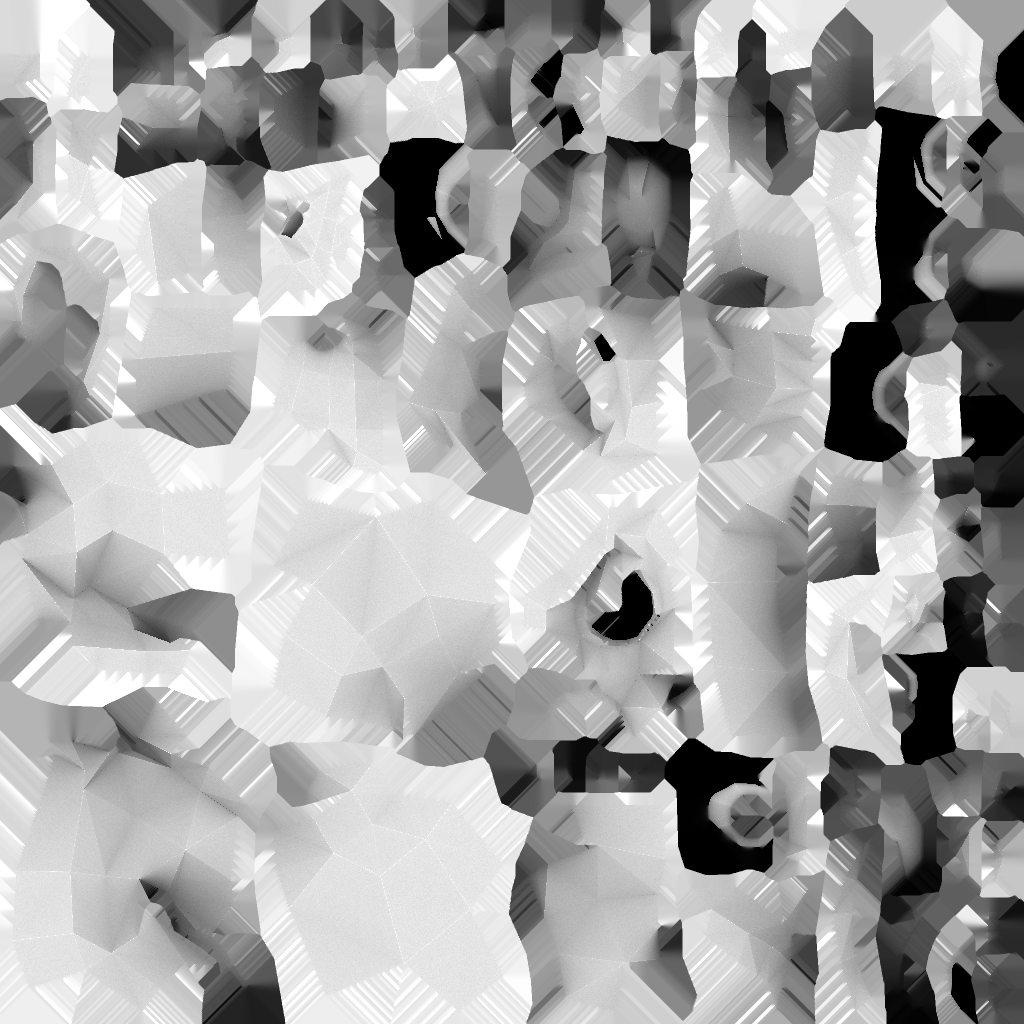
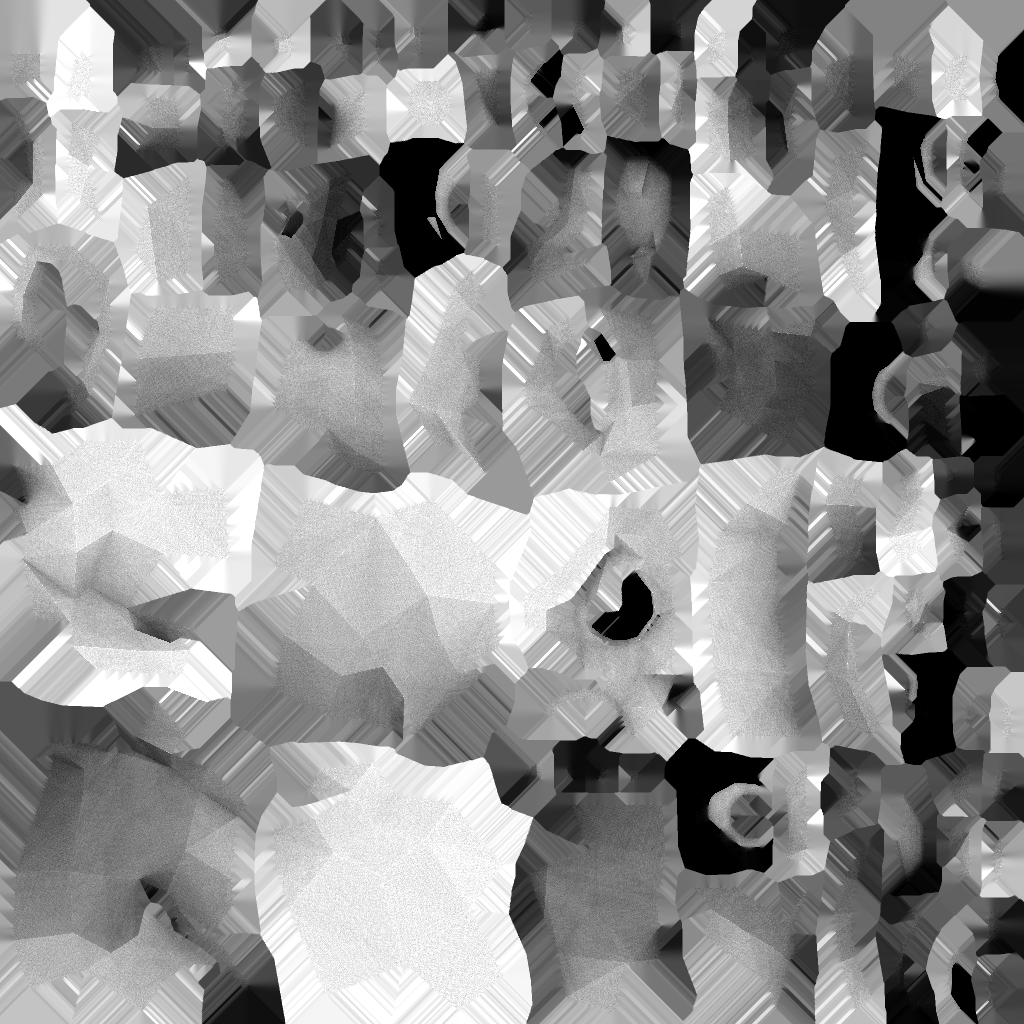
CleanUp, added batch baking, auto groundplanes

diff --git a/Assets/BNAO/Editor/BNAO.cs b/Assets/BNAO/Editor/BNAO.cs
@@ -92,9 +92,10 @@ public class BNAO : EditorWindow
 		ForceOneSided,
 		UseMaterialParameter
 	}
-
-	public MeshRenderer GroundPlaneRenderer;
 	public bool useGroundPlane;
+	public bool autoPlaceGroundplane;
+	public float groundPlaneOffset;
+	private List<GameObject> groundPlaneObjects = new List<GameObject>();
 
 	public BakeMode bakeMode = BakeMode.BentNormal;
 	public NormalsSpace bentNormalsSpace = NormalsSpace.Tangent;
@@ -119,6 +120,10 @@ public class BNAO : EditorWindow
 	public string outputPath = "Assets/BNAO/Bakes";
 	public NameMode nameMode = NameMode.Shortest;
 	private bool deleteDoubles = false;
+
+	private GameObject[] batchSelection;
+	private int batchIndex = 0;
+	private bool batchBake = false;
 
 	RenderTexture temp, shadowMap;
 
@@ -201,6 +206,8 @@ public class BNAO : EditorWindow
 		if (useOriginalShaders) EditorGUI.EndDisabledGroup();
 		if (bakeMode == BakeMode.NormalsConversion) EditorGUI.EndDisabledGroup();
 		if (bakeMode == BakeMode.AmbientOcclusion) useGroundPlane = EditorGUILayout.Toggle(new GUIContent("Use Ground Plane", "Ground Placed at (0,0,0), nice for things touching it."), useGroundPlane);
+		if (bakeMode == BakeMode.AmbientOcclusion && useGroundPlane) autoPlaceGroundplane = EditorGUILayout.Toggle(new GUIContent("Auto Place Ground", "If enabled, ground will be placed at the lowest point of the object's bounding box. Otherwise ground is placed at (0,0,0)."), autoPlaceGroundplane);
+		if (bakeMode == BakeMode.AmbientOcclusion && useGroundPlane) groundPlaneOffset = EditorGUILayout.FloatField(new GUIContent("Ground Plane Y Offset", "Moves the ground up or down. Using negative values are reccomended, as they will move the ground away from your object, not into it."), groundPlaneOffset);
 		transparentPixels		= EditorGUILayout.Toggle(new GUIContent("Transparent Background", "Whether to fill background pixels in the output texture with neutral values or leave them blank."), transparentPixels);
 		GUILayout.Space(4);
 		outputPath				= EditorGUILayout.TextField("Output Folder", outputPath);
@@ -208,11 +215,25 @@ public class BNAO : EditorWindow
 		var rect = GUILayoutUtility.GetLastRect();
 
 		if (Selection.gameObjects.Length < 1) EditorGUI.BeginDisabledGroup(true);
-		if (GUILayout.Button(Selection.gameObjects.Length < 1 ? "Select some objects to bake!" : (Selection.gameObjects.Length == 1 ? "Bake Selected Object" : "Bake Selected Objects")))
+		if (GUILayout.Button(Selection.gameObjects.Length < 1 ? "Select some objects to bake!" : (Selection.gameObjects.Length == 1 ? "Bake Selected Object" : "Bake Objects Combined")))
 		{
 			Bake(Selection.gameObjects);
 		}
 		if (Selection.gameObjects.Length < 1) EditorGUI.EndDisabledGroup();
+
+
+		if (Selection.gameObjects.Length > 1) {
+			if (GUILayout.Button("Batch Bake Objects Individually"))
+			{
+				batchIndex = 0;
+				batchBake = true;
+				GameObject[] objects = new GameObject[1];
+				objects[0] = Selection.gameObjects[0];
+				Bake(objects);
+				
+			}
+		}
+		
 	}
 
 	/// <summary>
@@ -354,11 +375,23 @@ public class BNAO : EditorWindow
 			if(bakeMode == BakeMode.AmbientOcclusion && useGroundPlane)
             {
 				GameObject planeObj = GameObject.CreatePrimitive(PrimitiveType.Plane);
-				planeObj.transform.position = Vector3.zero;
+
+				if (autoPlaceGroundplane)
+				{
+					planeObj.transform.position = gameObject.GetComponent<MeshRenderer>().bounds.min;
+				}
+				else
+				{
+					planeObj.transform.position = Vector3.zero;
+				}
 				planeObj.transform.localScale = Vector3.one * 1000;
-				planeObj.tag = "RemoveAfterBake";
+				planeObj.transform.position += Vector3.up * groundPlaneOffset;
+
 				GameObject secondPlane = GameObject.Instantiate(planeObj);
 				secondPlane.transform.Rotate(Vector3.left, 180);
+
+				groundPlaneObjects.Add(planeObj);
+				groundPlaneObjects.Add(secondPlane);
 				
 			}
 			
@@ -616,11 +649,12 @@ public class BNAO : EditorWindow
 			// Clean up
 			DestroyImmediate(camera.gameObject);
             
-			GameObject[] objcts = GameObject.FindGameObjectsWithTag("RemoveAfterBake");
+			GameObject[] objcts = groundPlaneObjects.ToArray();
             for (int i = 0; i < objcts.Length; i++)
             {
 				DestroyImmediate(objcts[i]);
             }
+			groundPlaneObjects.Clear();
 		}
 
 		EditorUtility.DisplayProgressBar(progressTitle, "Post Processing...", 1);
@@ -722,6 +756,15 @@ public class BNAO : EditorWindow
 		UnityEditor.AssetDatabase.Refresh();
 
 		EditorUtility.ClearProgressBar();
+
+		if(batchBake && batchIndex < Selection.gameObjects.Length-1)
+        {
+			batchIndex += 1;
+			GameObject[] objects = new GameObject[1];
+			objects[0] = Selection.gameObjects[batchIndex];
+			Bake(objects);
+
+		}
 	}
 
 	void Clear (RenderTexture rt, Color clearColor)
